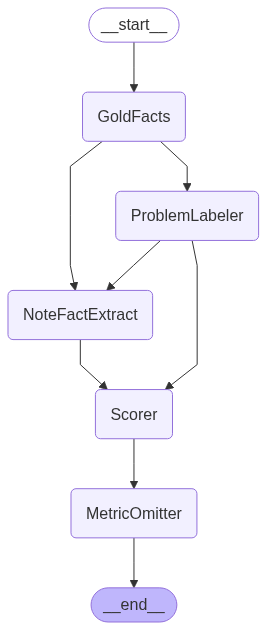
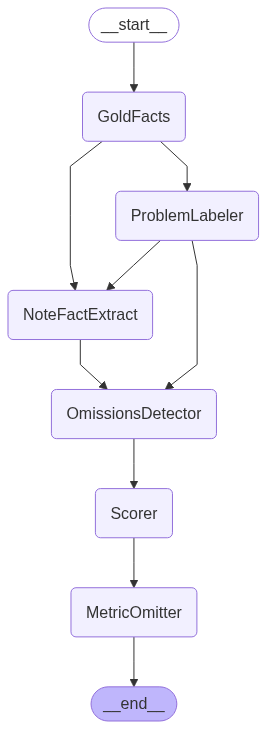
create omissions_detector agent

diff --git a/pipeline/agents/omissions_detector.py b/pipeline/agents/omissions_detector.py
@@ -1,0 +1,133 @@
+from __future__ import annotations
+
+import json
+import re
+from typing import Any, Dict, List, Optional
+
+from pipeline.state import PipelineState, HPIFact, FactClassification
+from llm_utils import call_llm
+
+_MODEL = "gpt-4o-mini"
+_MAX_CANDIDATES = 10  # keep prompts cheap
+
+# ---------------- helpers ----------------
+
+def _norm(s: Optional[str]) -> str:
+    if not s:
+        return ""
+    s = re.sub(r"\s+", " ", s.strip())
+    return s
+
+def _same_problem(tf: HPIFact, nf: HPIFact, *, total_problems: int = 0) -> bool:
+    """
+    Strict: if both sides have problem_id, require equality.
+    Soft: if the visit has exactly ONE problem, allow match even if an id is missing.
+    """
+    tpid = getattr(tf, "problem_id", None)
+    npid = getattr(nf, "problem_id", None)
+    if tpid and npid:
+        return tpid == npid
+    return total_problems == 1
+
+def _compact_fact_view(f: HPIFact) -> Dict[str, Any]:
+    return {
+        "id": getattr(f, "id", None),
+        "code": _norm(getattr(f, "code", None)),
+        "polarity": _norm(getattr(f, "polarity", None)),
+        "time_scope": _norm(getattr(f, "time_scope", None)) or None,
+        "value": _norm(getattr(f, "value", None)) or None,
+        "evidence_text": _norm(getattr(getattr(f, "evidence_span", None), "text", None)) or None,
+    }
+
+def _build_prompt(transcript_fact: HPIFact, candidates: List[HPIFact]) -> str:
+    """
+    Lenient, semantics-first instructions. Return JSON only.
+    """
+    tf = _compact_fact_view(transcript_fact)
+    cands = [_compact_fact_view(nf) for nf in candidates[:_MAX_CANDIDATES]]
+
+    guidance = (
+        "You are matching a single TRANSCRIPT fact to any of several NOTE facts. "
+        "All items already share the same HPI code and problem context. "
+        "Decide if the transcript fact is PRESENT in the note, OMITTED from the note, or in direct CONFLICT.\n\n"
+        "Lenient matching rules:\n"
+        " • Consider semantics over surface form: synonyms, paraphrases, and small wording differences count as the same.\n"
+        " • Minor time phrasing differences (e.g., 'last couple of weeks' vs 'several weeks ago') count as the same onset.\n"
+        " • Time scope labels (e.g., None vs 'changed') do not by themselves cause conflict.\n"
+        " • Use CONFLICT only for clear contradictions (e.g., polarity disagreement: 'present' vs 'absent'/'denies'; "
+        "   or mutually exclusive values).\n"
+        " • Default to PRESENT if at least one note candidate describes the same real-world fact.\n\n"
+        "Return strict JSON with: "
+        "{status: 'present'|'omitted'|'conflict', best_note_fact_id: string|null, match_confidence: 0.0-1.0, reason: string}."
+    )
+
+    prompt = (
+        f"{guidance}\n\n"
+        f"TRANSCRIPT_FACT:\n{json.dumps(tf, ensure_ascii=False)}\n\n"
+        f"NOTE_FACT_CANDIDATES ({len(cands)}):\n{json.dumps(cands, ensure_ascii=False)}\n"
+        "Respond with ONLY the JSON object."
+    )
+    return prompt
+
+def _llm_json_only(prompt: str) -> Dict[str, Any]:
+    """
+    Calls the LLM and returns a Python dict.
+    Minimal parsing: JSON loads; if that fails, slice first {...}.
+    """
+    raw = call_llm(_MODEL, prompt)
+    try:
+        return json.loads(raw)
+    except Exception:
+        l = raw.find("{")
+        r = raw.rfind("}")
+        if l != -1 and r != -1 and r > l:
+            return json.loads(raw[l : r + 1])
+        raise RuntimeError(f"LLM did not return JSON: {raw[:200]}...")
+
+# ---------------- core ----------------
+
+def omissions_detector(state: PipelineState) -> PipelineState:
+    """
+    LLM-driven matching:
+      - For each transcript fact, filter note facts by (code AND problem_id).
+      - If none -> 'omitted'.
+      - Else ask the LLM to decide present/omitted/conflict.
+    """
+    tfacts = state.transcript_facts or []
+    nfacts = state.note_facts or []
+    total_problems = len(state.problems or [])
+
+    out: List[FactClassification] = []
+
+    for tf in tfacts:
+        code = (getattr(tf, "code", None) or "").strip()
+        candidates = [
+            nf for nf in nfacts
+            if (getattr(nf, "code", None) or "").strip() == code
+            and _same_problem(tf, nf, total_problems=total_problems)
+        ]
+
+        if not candidates:
+            status = "omitted"
+        else:
+            prompt = _build_prompt(tf, candidates)
+            resp = _llm_json_only(prompt)
+            status = str(resp.get("status", "omitted")).lower()
+            if (status == "omitted"):
+                print(resp)
+            if status not in {"present", "omitted", "conflict"}:
+                status = "omitted"
+
+        # keep this simple; Phase 2 scorer can revise if needed
+        reco = "HPI" if status in {"omitted", "conflict"} else "not_relevant"
+
+        out.append(FactClassification(
+            fact_id=tf.id,
+            status=status,
+            recommended_inclusion=reco,
+            materiality=0.0,
+            priority_label=None,
+        ))
+
+    state.classifications = out
+    return state

diff --git a/pipeline/agent_pipeline.py b/pipeline/agent_pipeline.py
@@ -8,7 +8,7 @@ import uuid
 
 from pipeline.state import PipelineState
 from langgraph.graph import StateGraph, START, END
-from pipeline.agents import (gold_fact_extract, problem_labeler, note_fact_extract)
+from pipeline.agents import (gold_fact_extract, problem_labeler, note_fact_extract, omissions_detector)
 
 # --- Mock agent functions (no-ops) -----------------------------------
 def omission_scorer(state: PipelineState) -> PipelineState:
@@ -26,18 +26,22 @@ def build_graph():
     
     # ─── Independent branch C: gold facts → buckets
     g.add_node("ProblemLabeler",  problem_labeler)
-    g.add_edge("GoldFacts",       "ProblemLabeler")
+    g.add_edge("GoldFacts", "ProblemLabeler")
 
     # ─── Omission detection ─────────────────────────────────
     g.add_node("NoteFactExtract", note_fact_extract)
     g.add_edge(["GoldFacts","ProblemLabeler"] , "NoteFactExtract")
 
+    g.add_node("OmissionsDetector", omissions_detector)
+    g.add_edge(["NoteFactExtract", "ProblemLabeler"], "OmissionsDetector")
+
     # ─── Scoring & emit ─────────────────────────────────────
     g.add_node("Scorer", omission_scorer)       # uses state.gold_facts + state.facts[…]
-    g.add_edge(["NoteFactExtract", "ProblemLabeler"], "Scorer")
+    g.add_node("MetricOmitter", metric_omitter)
+    g.add_edge("OmissionsDetector", "Scorer")
     g.add_edge("Scorer", "MetricOmitter")
 
-    g.add_node("MetricOmitter", metric_omitter)
+    
     g.add_edge("MetricOmitter", END)
 
     compiled = g.compile()

diff --git a/loaders/parse_diarized_text.py b/loaders/parse_diarized_text.py
@@ -149,8 +149,6 @@ def _llm_label(batch: List[str]) -> List[str]:
         labels = ast.literal_eval(raw)  # fallback
 
     if not isinstance(labels, list) or len(labels) != len(batch):
-        print("this does happen")
-        print(batch, labels, prompt)
         raise RuntimeError(f"Unexpected LLM response:\n{raw}")
 
     return [lbl.upper() for lbl in labels]
@@ -165,7 +163,6 @@ def _tag_sentences(sents: List[str]) -> List[str]:
             if len(labels) == len(batch):
                 tags.extend(labels)
                 break
-            print("this never happens")
     return tags
 
 def _merge_turns(sents: List[str], tags: List[str]) -> List[Tuple[str, str]]:

diff --git a/run_all.py b/run_all.py
@@ -46,7 +46,7 @@ def parse_args() -> argparse.Namespace:
     parser.add_argument(
         "--input",
         "-i",
-        default="diarized.csv",
+        default="raw_data/omissions_sample_encounters_diarized.csv",
         help="Path to input CSV (default: diarized.csv)",
     )
     parser.add_argument(

diff --git a/pipeline/agents/__init__.py b/pipeline/agents/__init__.py
@@ -1,3 +1,4 @@
 from .gold_fact_extract import gold_fact_extract
 from .problem_labeler import problem_labeler
 from .note_fact_extract import note_fact_extract
+from .omissions_detector import omissions_detector
